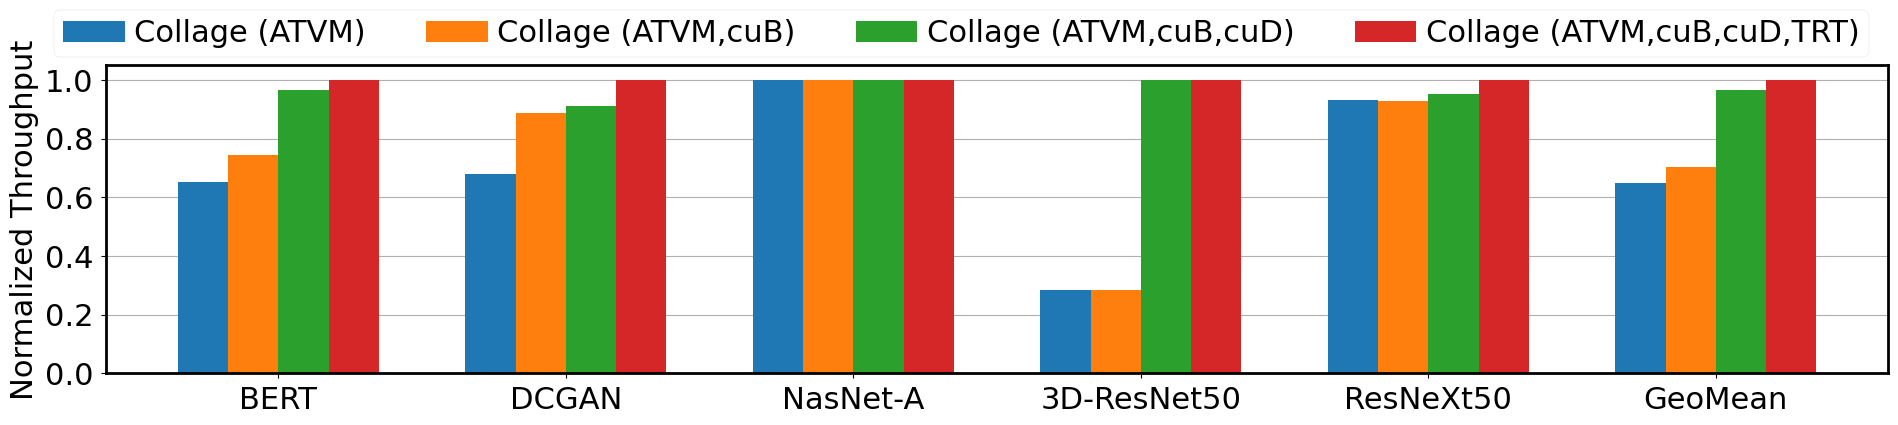
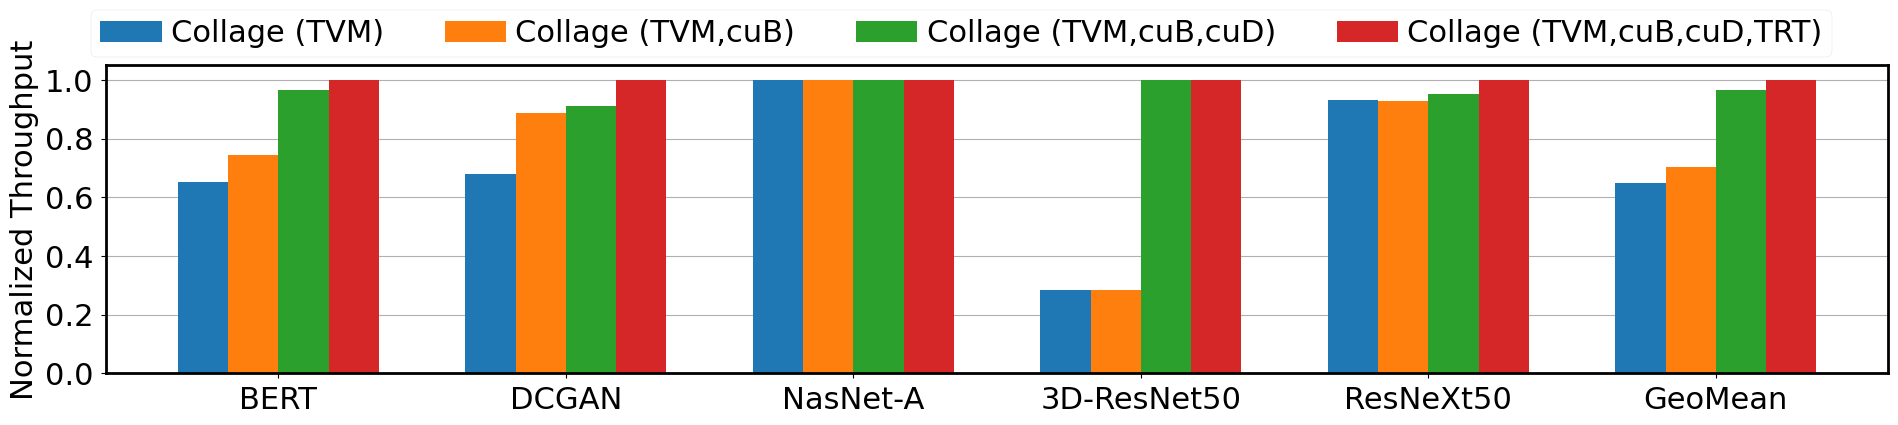
[Backend Ablation study] AutoTVM -> TVM changed

Changed region(s): [[0.5595, 0.0306, 0.9947, 0.1224], [0.0311, 0.0306, 0.4352, 0.1224]]

diff --git a/sandbox/testing/plot_dp_backends.py b/sandbox/testing/plot_dp_backends.py
@@ -42,12 +42,12 @@ if __name__ == "__main__":
 
     # Plot adding one backend at a time
     backends_to_print = ['autotvm','autotvm-cublas','autotvm-cublas-cudnn', 'autotvm-cublas-cudnn-tensorrt']
-    backend_rename_dic = {'autotvm':'Collage (ATVM)','autotvm-cublas':'Collage (ATVM,cuB)',
-                          'autotvm-cublas-cudnn':'Collage (ATVM,cuB,cuD)','autotvm-cublas-cudnn-tensorrt':'Collage (ATVM,cuB,cuD,TRT)'}
-    cols = ['Collage (ATVM)','Collage (ATVM,cuB)', 'Collage (ATVM,cuB,cuD)', 'Collage (ATVM,cuB,cuD,TRT)']
+    backend_rename_dic = {'autotvm':'Collage (TVM)','autotvm-cublas':'Collage (TVM,cuB)',
+                          'autotvm-cublas-cudnn':'Collage (TVM,cuB,cuD)','autotvm-cublas-cudnn-tensorrt':'Collage (TVM,cuB,cuD,TRT)'}
+    cols = ['Collage (TVM)','Collage (TVM,cuB)', 'Collage (TVM,cuB,cuD)', 'Collage (TVM,cuB,cuD,TRT)']
     #cols = cols[::-1]
-    #best_backend = 'Collage (ATVM)'
-    best_backend = 'Collage (ATVM,cuB,cuD,TRT)'
+    #best_backend = 'Collage (TVM)'
+    best_backend = 'Collage (TVM,cuB,cuD,TRT)'
     args.n_method = 4
     args.plot_name = 'backend_inc'
 
